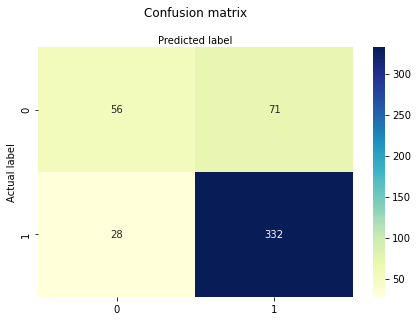
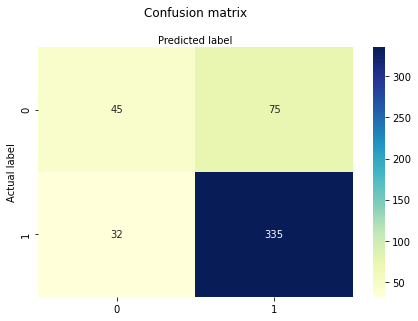
modified skrypt

diff --git a/README.md b/README.md
@@ -12,14 +12,7 @@ import pandas as pd
 import seaborn as sns
 import numpy as np
 import matplotlib.pylab as plt
-from scipy.spatial import distance_matrix
 from sklearn import preprocessing
-from scipy.cluster.hierarchy import ClusterWarning
-import scipy.cluster
-from scipy.cluster.hierarchy import dendrogram
-import gower
-from scipy.cluster import hierarchy
-import matplotlib.pyplot as plt
 from sklearn.model_selection import train_test_split
 from sklearn.linear_model import LogisticRegression
 from sklearn import metrics
@@ -1541,28 +1534,28 @@ y_pred
 
 
 
-    array([1, 1, 1, 0, 1, 1, 1, 0, 1, 1, 1, 0, 1, 0, 1, 1, 1, 1, 1, 1, 1, 0,
-           1, 1, 0, 1, 1, 1, 1, 1, 1, 0, 1, 1, 0, 0, 0, 1, 1, 1, 1, 0, 1, 1,
-           1, 1, 1, 1, 1, 1, 0, 1, 1, 1, 1, 1, 1, 1, 1, 1, 1, 1, 1, 0, 1, 1,
-           0, 1, 1, 1, 1, 1, 1, 1, 1, 1, 0, 1, 1, 1, 1, 1, 1, 1, 1, 1, 0, 1,
-           1, 1, 1, 1, 1, 1, 1, 1, 1, 1, 0, 1, 1, 0, 1, 1, 1, 0, 1, 1, 1, 1,
-           1, 1, 1, 1, 1, 1, 0, 1, 1, 1, 1, 1, 1, 1, 1, 1, 1, 1, 1, 0, 1, 1,
-           1, 1, 1, 1, 1, 0, 1, 1, 1, 1, 0, 1, 1, 0, 1, 0, 1, 0, 0, 1, 1, 1,
-           1, 1, 1, 1, 1, 1, 1, 1, 1, 0, 1, 1, 1, 1, 1, 1, 0, 0, 1, 1, 1, 0,
-           1, 1, 0, 1, 0, 0, 1, 1, 1, 1, 1, 1, 1, 0, 0, 1, 1, 1, 1, 0, 1, 1,
-           1, 1, 1, 1, 0, 1, 1, 1, 1, 1, 0, 1, 0, 1, 1, 1, 0, 1, 1, 1, 0, 1,
-           1, 1, 1, 1, 1, 0, 1, 1, 1, 1, 1, 0, 1, 1, 1, 1, 1, 1, 1, 1, 0, 1,
-           1, 1, 1, 1, 1, 0, 1, 1, 1, 1, 1, 0, 1, 1, 1, 1, 1, 1, 0, 1, 1, 1,
-           0, 1, 1, 1, 1, 1, 1, 1, 1, 1, 1, 1, 1, 1, 0, 0, 1, 0, 1, 1, 1, 1,
-           1, 1, 0, 1, 0, 1, 1, 0, 1, 1, 0, 1, 0, 0, 1, 1, 1, 1, 1, 1, 1, 1,
-           1, 1, 1, 1, 1, 1, 0, 0, 1, 0, 1, 1, 1, 1, 1, 0, 1, 1, 1, 1, 1, 1,
-           1, 1, 0, 1, 1, 1, 1, 1, 0, 1, 0, 1, 1, 1, 1, 1, 0, 1, 1, 1, 0, 0,
-           1, 1, 1, 0, 1, 1, 1, 1, 0, 1, 1, 1, 1, 1, 0, 0, 1, 1, 1, 1, 1, 1,
-           1, 1, 1, 1, 1, 1, 1, 0, 1, 1, 1, 1, 1, 1, 1, 1, 1, 1, 1, 1, 0, 1,
-           1, 1, 1, 1, 1, 0, 1, 1, 1, 1, 1, 0, 1, 1, 1, 1, 1, 1, 1, 1, 1, 1,
-           1, 1, 1, 1, 0, 1, 1, 1, 1, 1, 1, 0, 1, 1, 1, 1, 1, 1, 1, 1, 1, 1,
-           1, 1, 0, 0, 1, 1, 1, 1, 1, 1, 1, 1, 1, 1, 1, 1, 1, 0, 1, 1, 1, 1,
-           1, 1, 0, 1, 1, 1, 1, 1, 1, 1, 1, 1, 1, 1, 0, 1, 1, 1, 1, 1, 0, 1,
+    array([1, 1, 0, 1, 1, 0, 1, 1, 1, 1, 1, 1, 1, 1, 1, 0, 1, 0, 1, 1, 1, 1,
+           1, 1, 1, 1, 1, 0, 1, 1, 1, 1, 1, 1, 1, 1, 1, 1, 1, 1, 1, 1, 0, 1,
+           1, 1, 0, 1, 1, 1, 1, 1, 1, 1, 1, 0, 1, 0, 0, 1, 1, 1, 0, 1, 1, 1,
+           0, 1, 0, 1, 1, 1, 1, 1, 1, 1, 1, 1, 1, 1, 0, 0, 1, 0, 0, 1, 1, 0,
+           1, 1, 0, 1, 1, 1, 1, 0, 1, 1, 1, 1, 1, 1, 1, 1, 1, 1, 1, 1, 1, 1,
+           1, 1, 1, 1, 1, 1, 1, 1, 1, 1, 1, 1, 1, 1, 1, 1, 1, 1, 1, 1, 0, 1,
+           1, 1, 1, 1, 0, 1, 1, 0, 1, 1, 1, 1, 1, 1, 1, 1, 1, 1, 1, 1, 0, 1,
+           1, 1, 1, 1, 1, 1, 1, 1, 1, 1, 1, 1, 1, 1, 1, 0, 1, 0, 1, 1, 1, 1,
+           1, 1, 1, 1, 1, 0, 1, 0, 1, 1, 1, 0, 1, 1, 1, 1, 1, 1, 1, 1, 1, 1,
+           1, 0, 1, 1, 0, 0, 1, 0, 1, 1, 0, 1, 1, 1, 1, 0, 1, 1, 1, 1, 1, 1,
+           0, 1, 1, 0, 1, 1, 1, 1, 1, 1, 1, 1, 1, 1, 1, 1, 1, 1, 1, 1, 1, 1,
+           1, 1, 1, 1, 0, 1, 1, 1, 1, 1, 1, 1, 1, 0, 1, 1, 0, 1, 0, 0, 1, 1,
+           1, 1, 1, 1, 1, 1, 0, 0, 1, 1, 1, 1, 0, 1, 1, 1, 1, 1, 1, 1, 1, 1,
+           0, 1, 1, 1, 1, 1, 1, 1, 0, 1, 1, 1, 1, 1, 1, 0, 0, 1, 1, 1, 1, 1,
+           1, 1, 1, 1, 1, 0, 1, 1, 1, 1, 1, 1, 0, 1, 1, 0, 0, 1, 1, 1, 1, 1,
+           0, 1, 1, 1, 1, 1, 1, 1, 1, 1, 1, 1, 0, 1, 1, 1, 1, 1, 0, 1, 1, 1,
+           1, 1, 1, 1, 1, 1, 1, 1, 1, 1, 0, 1, 0, 1, 1, 1, 1, 0, 1, 1, 1, 1,
+           1, 1, 0, 1, 1, 1, 1, 1, 0, 1, 1, 1, 1, 1, 1, 1, 1, 1, 1, 1, 0, 1,
+           1, 1, 1, 1, 1, 0, 1, 0, 1, 1, 1, 1, 1, 0, 1, 1, 0, 1, 1, 1, 1, 0,
+           1, 1, 1, 1, 1, 1, 1, 1, 1, 1, 1, 1, 0, 1, 1, 1, 1, 0, 1, 1, 1, 0,
+           1, 1, 1, 1, 1, 1, 0, 1, 1, 1, 1, 1, 1, 1, 1, 1, 1, 1, 1, 1, 1, 1,
+           1, 1, 1, 0, 1, 1, 0, 1, 0, 1, 1, 1, 1, 0, 1, 1, 1, 0, 1, 1, 0, 1,
            1, 1, 1], dtype=int64)
 
 
@@ -1578,8 +1571,8 @@ cnf_matrix
 
 
 
-    array([[ 56,  71],
-           [ 28, 332]], dtype=int64)
+    array([[ 45,  75],
+           [ 32, 335]], dtype=int64)
 
 
 
@@ -1590,9 +1583,9 @@ print(f"Precision: {metrics.precision_score(y_test, y_pred)}")
 print(f"Recall: {metrics.recall_score(y_test, y_pred)}")
 ```
 
-    Accuracy: 0.7967145790554415
-    Precision: 0.8238213399503722
-    Recall: 0.9222222222222223
+    Accuracy: 0.7802874743326489
+    Precision: 0.8170731707317073
+    Recall: 0.9128065395095368
     
 
 
@@ -1662,9 +1655,9 @@ print(f"Precision: {metrics.precision_score(y_test, y_pred)}")
 print(f"Recall: {metrics.recall_score(y_test, y_pred)}")
 ```
 
-    Accuracy: 0.7802874743326489
-    Precision: 0.8543417366946778
-    Recall: 0.8472222222222222
+    Accuracy: 0.7166324435318275
+    Precision: 0.8243626062322946
+    Recall: 0.7929155313351499
     
 
 
@@ -1676,8 +1669,8 @@ cnf_matrix
 
 
 
-    array([[ 75,  52],
-           [ 55, 305]], dtype=int64)
+    array([[ 58,  62],
+           [ 76, 291]], dtype=int64)
 
 
 
